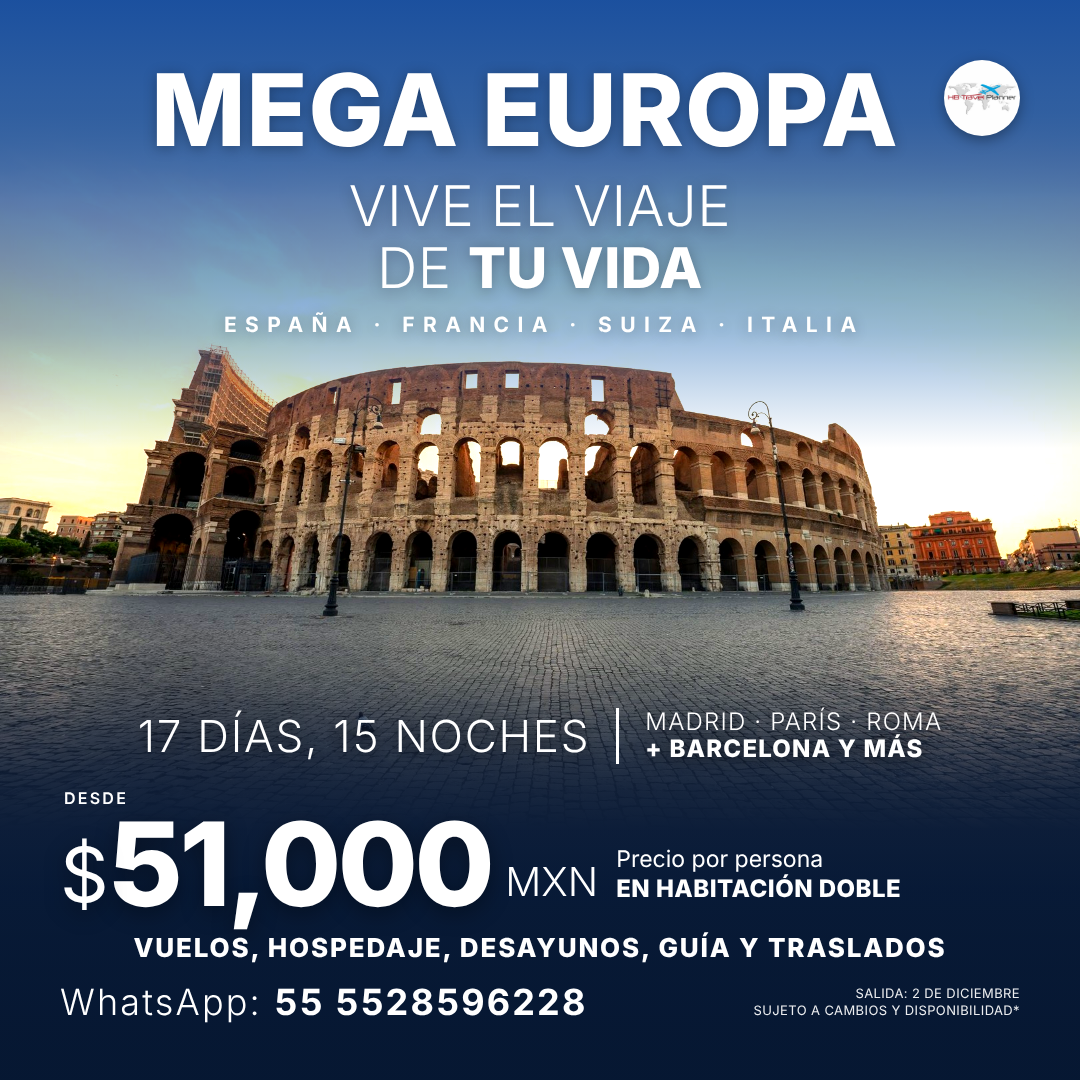
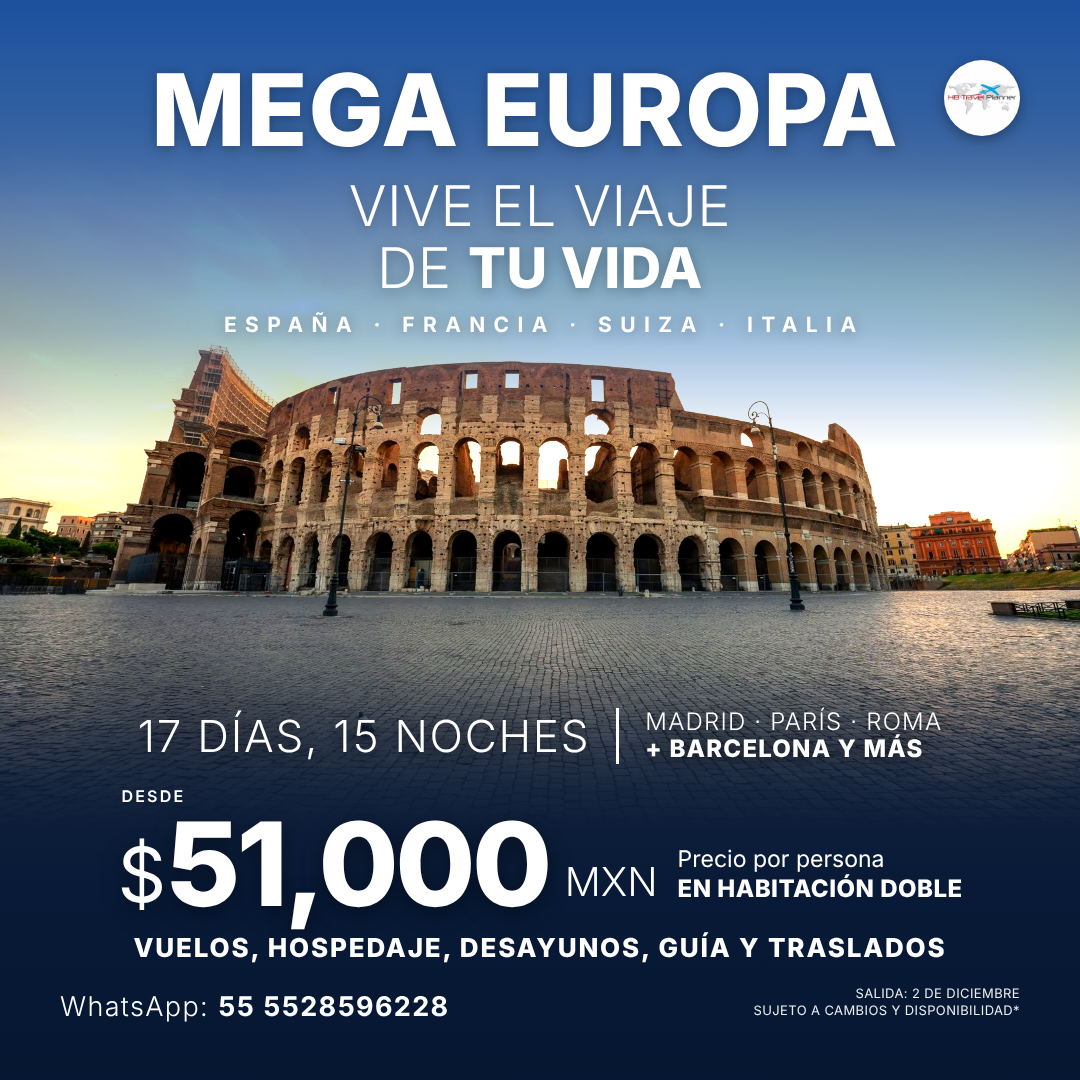
Mega Europa flyer v4: center price block, smaller WhatsApp text
Claude-Session: https://claude.ai/code/session_01KE8y3zqjDfDU485wDV3TSB

Changed region(s): [[0.0611, 0.7333, 0.8861, 0.8556], [0.0611, 0.9167, 0.55, 0.9472]]

diff --git a/flyers/mega-europa-coliseo-v4.html b/flyers/mega-europa-coliseo-v4.html
@@ -35,8 +35,9 @@
   .row1 .small{font-weight:300;font-size:24px;line-height:1.12;letter-spacing:.05em;text-transform:uppercase}
   .row1 .small b{font-weight:800}
 
-  .price{position:absolute;left:var(--m);right:var(--m);top:788px;display:flex;align-items:flex-end;gap:14px}
-  .por{position:absolute;left:4px;top:0;font-size:16px;font-weight:600;letter-spacing:.14em}
+  .price{position:absolute;left:var(--m);right:var(--m);top:788px;display:flex;justify-content:center;align-items:flex-end;gap:16px}
+  .amtwrap{position:relative}
+  .por{position:absolute;left:4px;top:-2px;font-size:16px;font-weight:600;letter-spacing:.14em}
   .amt{font-weight:800;font-size:116px;line-height:1;letter-spacing:-.03em;margin-top:18px;text-shadow:0 6px 22px rgba(0,0,0,.4)}
   .amt small{font-weight:400;font-size:76px;margin-right:2px;position:relative;top:-4px}
   .mxn{font-weight:300;font-size:40px;padding-bottom:16px}
@@ -45,7 +46,7 @@
 
   .inc{position:absolute;left:var(--m);right:var(--m);top:932px;text-align:center;font-weight:800;font-size:26px;letter-spacing:.07em;text-transform:uppercase;white-space:nowrap}
   .row4{position:absolute;left:var(--m);right:var(--m);bottom:var(--m);display:flex;justify-content:space-between;align-items:flex-end}
-  .ph{font-weight:300;font-size:36px;letter-spacing:.06em;line-height:1}
+  .ph{font-weight:300;font-size:27px;letter-spacing:.05em;line-height:1}
   .ph b{font-weight:700}
   .legal{font-size:13px;line-height:1.35;text-align:right;letter-spacing:.03em;opacity:.92;text-transform:uppercase}
 </style>
@@ -68,8 +69,7 @@
   </div>
 
   <div class="price">
-    <div class="por">DESDE</div>
-    <div class="amt"><small>$</small>51,000</div>
+    <div class="amtwrap"><div class="por">DESDE</div><div class="amt"><small>$</small>51,000</div></div>
     <div class="mxn">MXN</div>
     <div class="note">Precio por persona<b>en habitación doble</b></div>
   </div>
